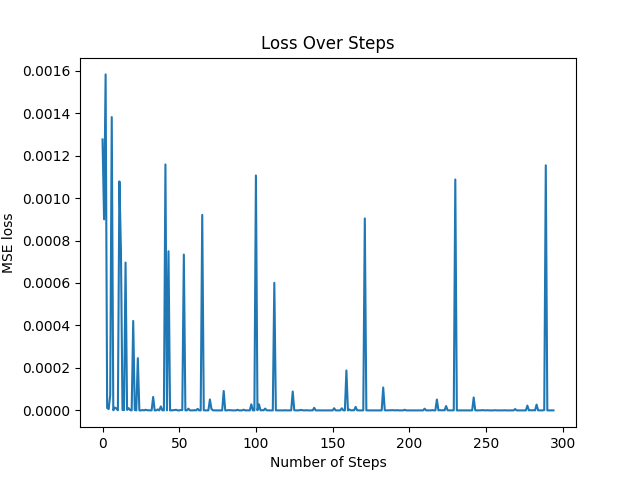
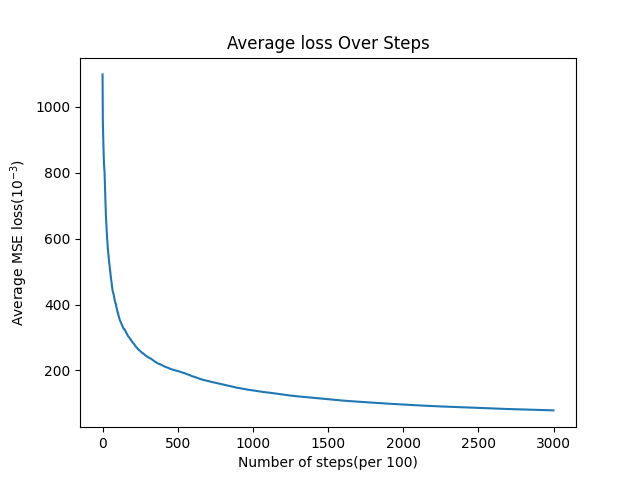
Adding return to homepage button

diff --git a/webApplication/templates/homePage.html b/webApplication/templates/homePage.html
@@ -291,11 +291,12 @@
         </p>
                 <center><h4>That's a wrap up!
             <br/>You can test the AI by uploading your picture or write your beloved number in the canvas and upload.</h4>
-                    <h4>Please write your number with a thick pencil for better results!</h4>
+                    <h4>Please write your number with a thick pencil for better results. Use also a bright background,
+                    and leave some spacing between the numbers.</h4>
                 </center>
 </div>
 
-<div id="uploading>
+<div id="uploading">
     <h1>Upload your own number! </h1>
     <form method="POST" action="/output" enctype="multipart/form-data">
         <input type="file" name="image" accept="image/*">

diff --git a/webApplication/templates/output.html b/webApplication/templates/output.html
@@ -29,6 +29,11 @@
         <br/>
         <img src="static/normalizedPictures/picture.png" width = 150 alt="Given input">
         </div>
+    <div>
+        <form action='/' method='get'>
+            <input type='submit' value='Go back' id="goBackButton"/>
+        </form>
+    </div>
     </div>
 <footer>Author: Burak Kucuktopal
 

diff --git a/webApplication/static/css/StylingOutputPage.css b/webApplication/static/css/StylingOutputPage.css
@@ -61,3 +61,15 @@ label {
 #guess {
 font-size: 25px;
 }
+
+#goBackButton{
+    display: block;
+    margin: 10px auto;
+    padding: 10px 20px;
+    background-color: #0077cc;
+    color: #fff;
+    border: none;
+    border-radius: 5px;
+    cursor: pointer;
+    transition: background-color 0.3s;
+}

diff --git a/Main.py b/Main.py
@@ -4,6 +4,7 @@ from Data import get_mnist_train, get_mnist_test, parsingPictureWithoutInversion
 from NeuralNetwork import *
 from Helper import plotting
 from HelperLoss import plottingLoss
+import numpy as np
 
 network = neuralNetwork()
 
@@ -16,6 +17,7 @@ def train():
     images_train, labels_train = get_mnist_train()
     print("IMAGES UPLOADED!")
     loss_list = list()
+    mean_loss_list = list()
     EPOCH = 5  # Number of epoch's/iterations
 
     for i in range(EPOCH):
@@ -29,10 +31,10 @@ def train():
 
 
             network.forward(image, label)
-
+            loss_list.append(network.loss[0])
             k += 1
             if k == 100:
-                loss_list.append(network.loss[0])
+                mean_loss_list.append(np.mean(loss_list))
                 k = 0
 
             if np.argmax(network.output) == np.argmax(label):
@@ -44,7 +46,7 @@ def train():
         print(f"time spent:{end_time - start_time}")
         network.learning_rate /= 2  # Dividing learning rate after each epoch
         network.save()  # saving the model
-        plottingLoss(loss_list)
+        plottingLoss(mean_loss_list)
     return
 
 
@@ -55,7 +57,7 @@ def test():
 
     images_test, labels_test = get_mnist_test()
     print("IMAGES UPLOADED!")
-    network.load('savedModels/modelDEFTEST.pkl')  # Loading model
+    network.load('modelDEFTEST.pkl')  # Loading model
 
     start_time = time.perf_counter()
     correct = 0

diff --git a/HelperLoss.py b/HelperLoss.py
@@ -1,16 +1,16 @@
 import matplotlib.pyplot as plt
 
 
-def plottingLoss(list_loss):
+def plottingLoss(list_mean_loss):
     """"
     Plotting the loss of the model in function of the steps
     """
-    plt.plot(range(len(list_loss)), list_loss)
+    plt.plot(range(len(list_mean_loss)), list_mean_loss)
     plt.xlabel('Number of steps(per 100)')
     expression = r'$10^{-3}$'
-    plt.ylabel('MSE loss(' + expression + ')')
-    plt.title('Loss Over Steps')
-    plot_file_name = 'savedModels/lossPlot.png'
+    plt.ylabel('Average MSE loss(' + expression + ')')
+    plt.title('Average loss Over Steps')
+    plot_file_name = 'savedModels/lossPlot' + str(int(len(list_mean_loss)//100)) + '.png'
     plt.savefig(plot_file_name)
     # Display or save the plot
     plt.show()

diff --git a/NeuralNetwork.py b/NeuralNetwork.py
@@ -79,7 +79,7 @@ class neuralNetwork():
         Saving the model
         """
         # Define the file path where you want to save the matrices
-        file_path = "savedModels/modelDEFTEST.pkl"
+        file_path = "modelDEFTEST.pkl"
 
         # Save the matrices to a file
         with open(file_path, 'wb') as file:
